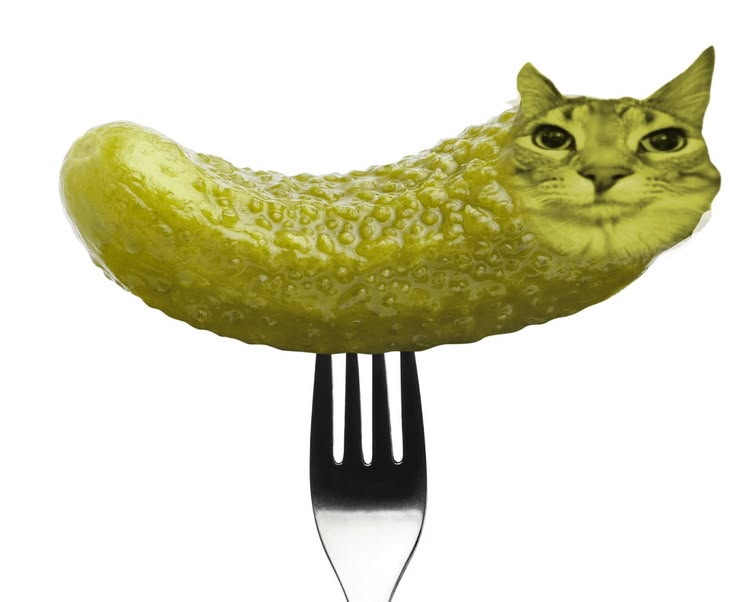
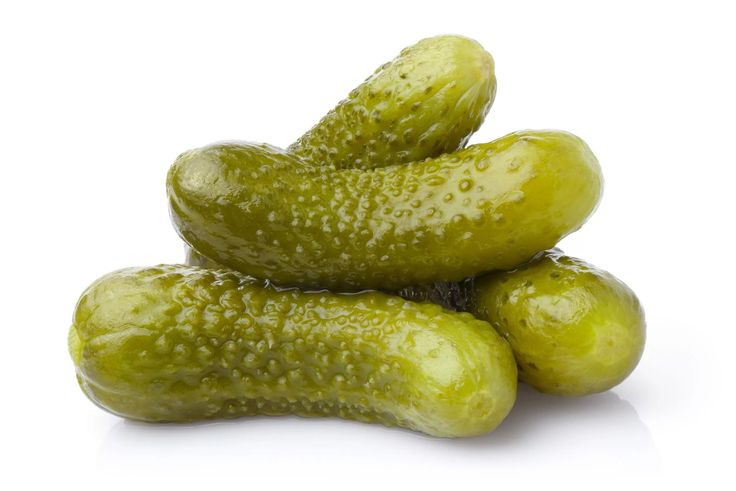
revisi

diff --git a/jobsheet_4/index.html b/jobsheet_4/index.html
@@ -23,13 +23,13 @@
             <br>
             <h4 class="buy">Belanja sekarang</h4>
         </div>
-        <div><img src="terong.jpg"></div>
+        <div><img src="snic.jpg"></div>
     </section>
     <section>
         <div class="galeri">
             <div class="card">
-                <img src="terong.jpg">
-                <div><h3>Terong</h3></div>
+                <img src="snic.jpg">
+                <div><h3>Snickers</h3></div>
                 <div><h4>Rp. 67.000</h4></div>
                 <div class="btn"><h3>Beli</h3></div>
             </div>
